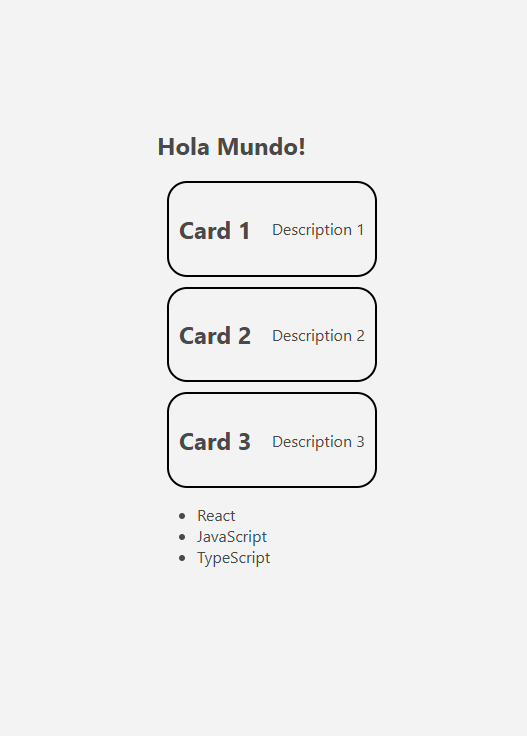
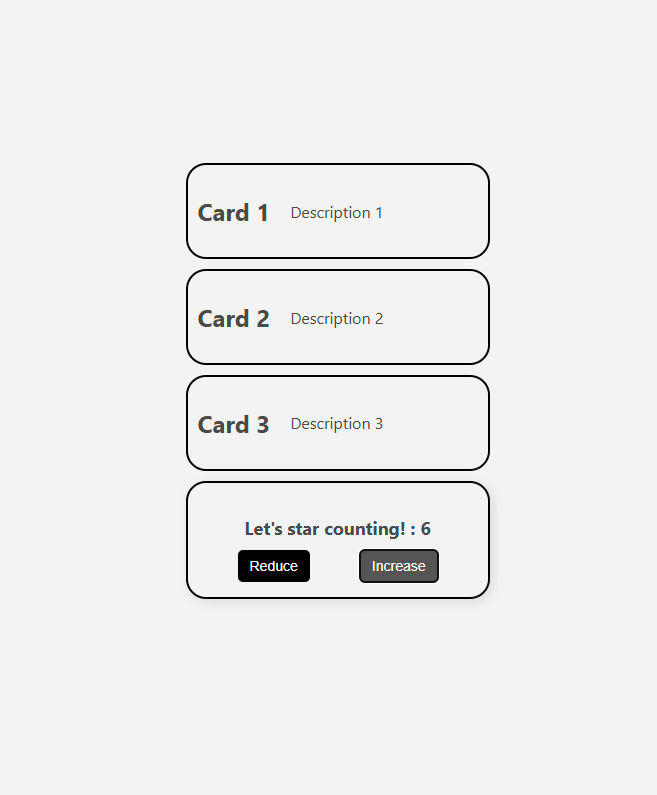
Manejo de Estados

Changed region(s): [[0.2732, 0.1875, 0.759, 0.75], [0.3036, 0.6562, 0.7287, 0.7812]]

diff --git a/src/components/Counter.css b/src/components/Counter.css
@@ -1,0 +1,35 @@
+.counter-container {
+    border: 2px solid black;
+    border-radius: 20px;
+    margin: 10px;
+    padding: 15px 50px;
+    text-align: center;
+    width: 200px;
+    box-shadow: 3px 3px 10px rgba(0, 0, 0, 0.1);
+}
+
+.counter-text {
+    font-size: 18px;
+    font-weight: bold;
+    margin-bottom: 10px;
+}
+
+.counter-buttons {
+    display: flex;
+    justify-content: space-between;
+}
+
+button {
+    background-color: black;
+    color: white;
+    border: none;
+    padding: 8px 12px;
+    border-radius: 5px;
+    cursor: pointer;
+    font-size: 14px;
+    transition: background 0.3s ease;
+}
+
+button:hover {
+    background-color: rgb(85, 85, 85);
+}

diff --git a/src/App.js b/src/App.js
@@ -1,22 +1,15 @@
 import './App.css';
 import Card from './components/Card.jsx'
+import Counter from './components/Counter.jsx'
 
 function App() {
-  const items=["React", "JavaScript","TypeScript"];
 
   return (
     <section>
-      <h1>Hola Mundo!</h1>
       <Card title="Card 1" description="Description 1" />
       <Card title="Card 2" description="Description 2" />
       <Card title="Card 3" description="Description 3" />
-      <ul>
-      {
-        items.map((item, index) => (
-          <li key={index}>{item}</li>
-        ))
-      }
-      </ul>
+      <Counter />
     </section>
   );
 }

diff --git a/src/components/Counter.jsx b/src/components/Counter.jsx
@@ -1,0 +1,18 @@
+import { useState } from 'react';
+import './Counter.css';
+
+const Counter = () => {
+    const [count, setCount] = useState(0);
+
+    return (
+        <div className="counter-container">
+            <p className="counter-text">Let's star counting! : {count}</p>
+            <div className="counter-buttons">
+                <button onClick={() => setCount(count - 1)}>Reduce</button>
+                <button onClick={() => setCount(count + 1)}>Increase</button>
+            </div>
+        </div>
+    );
+};
+
+export default Counter;
